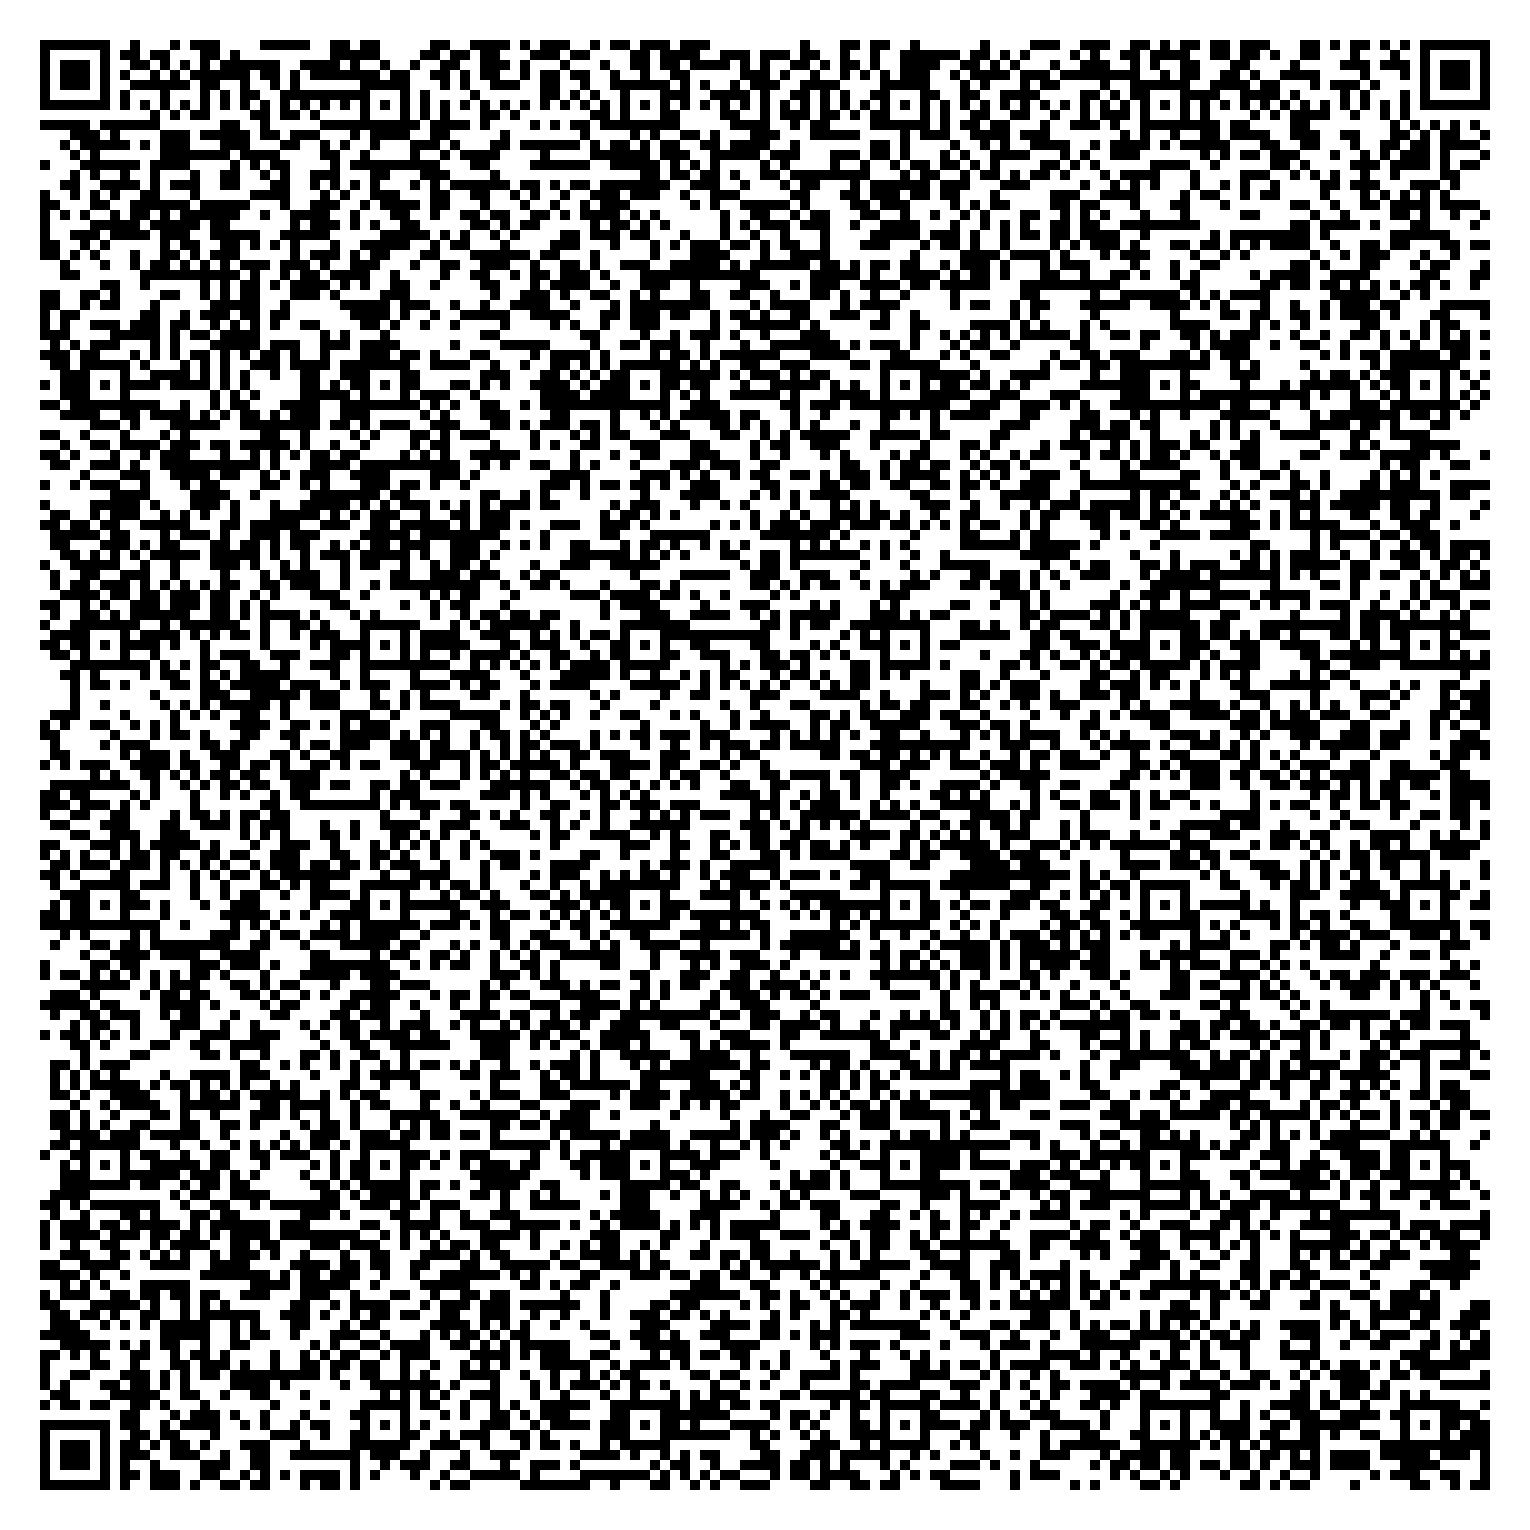
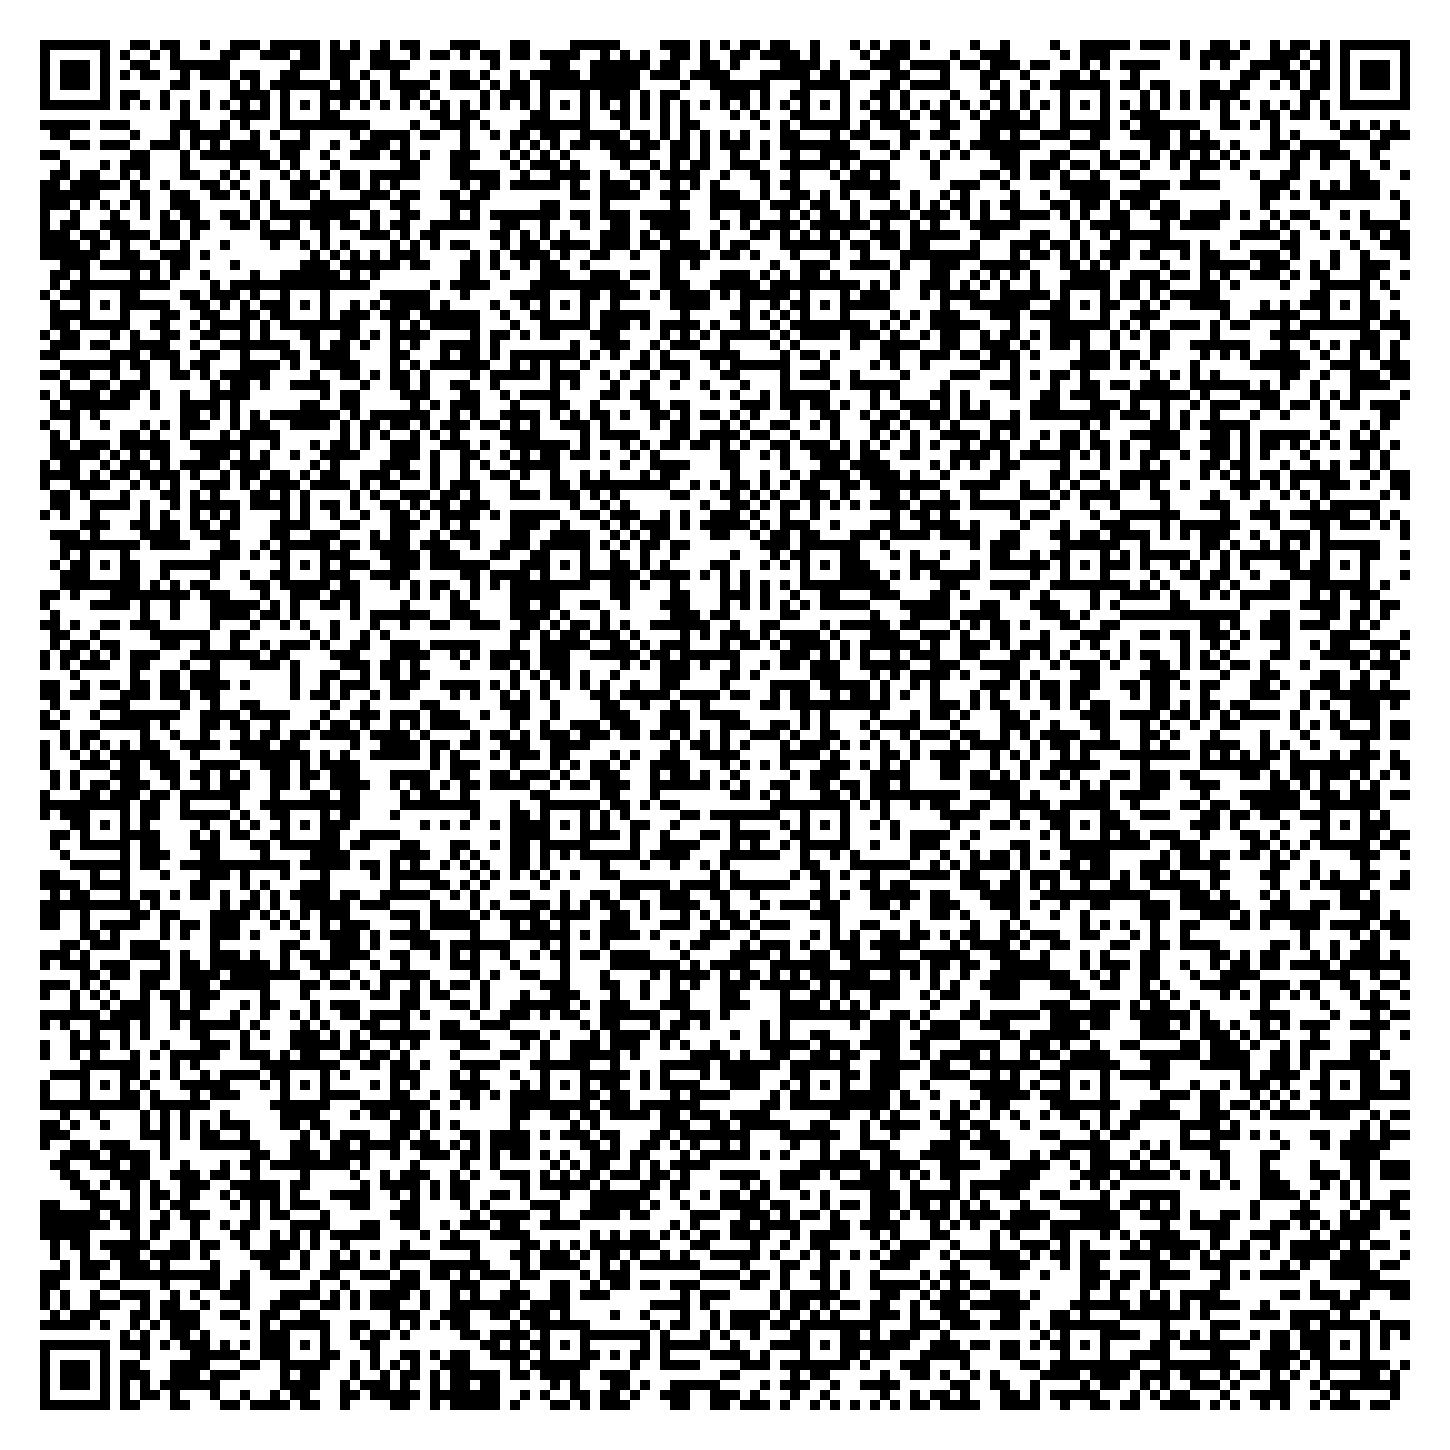
Issue 19/change demo for immmunity (#20)
* modify demo scripts

* update qr code

diff --git a/immunity/demo_immunity_enrol.py b/immunity/demo_immunity_enrol.py
@@ -11,16 +11,23 @@ with open(os.path.join(os.path.dirname(os.path.realpath(__file__)), "selfie.jpg"
 
 data = {
     'api_secret': 'e1131458-4664-4da7-855a-7ac3e5b9648d',
-    'first_name': 'ANGELA ZOE',
-    'last_name': 'UK SPECIMEN',
-    'issue_date': '1592310965',
-    'expiry_date': '1592310966',
-    'selfie': selfie_base64_encoded,
+    'identity': {
+        'first_name': 'ANGELA ZOE',
+        'last_name': 'UK SPECIMEN',
+        'selfie_base64_encoded': selfie_base64_encoded,
+        'email_address': 'angela.zoe@gov.uk', # optional
+        'phone_number': '00447700123456',     # optional
+        'date_of_birth': '19881204'           # optional
+    },
     'test': {
         'test_type': 'Molecular Swab Test',
         'test_result': 'Negative',
-        'issuer_email': 'robin@eyn.vision',
-        'issuer_location': 'Test Site'
-}}
-response = requests.post('https://api.eyn.ninja/api/v1/prod/immunity_enrol', json=data)
+        'package_id': '1234567890987654'
+    },
+    'issuer': {
+        'issuer_email': 'dev@eyn.vision',
+        'issuer_location': 'RESERVED_KEY'
+    }
+}
+response = requests.post('https://immunity.eyn.ninja/immunity_enrol', json=data)
 print(response.text)

diff --git a/immunity/demo_immunity_verify.py b/immunity/demo_immunity_verify.py
@@ -13,5 +13,5 @@ data = {
     'api_secret': '676bc3ca-e2b9-4161-85a4-1dc8592916a5',
     'certificate': certificate_base64_encoded,
 }
-response = requests.post('https://api.eyn.ninja/api/v1/prod/immunity_verify', json=data)
+response = requests.post('https://immunity.eyn.ninja/immunity_verify', json=data)
 print(response.text)
